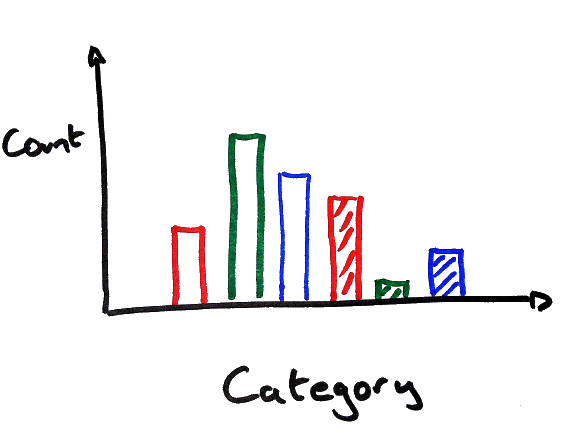
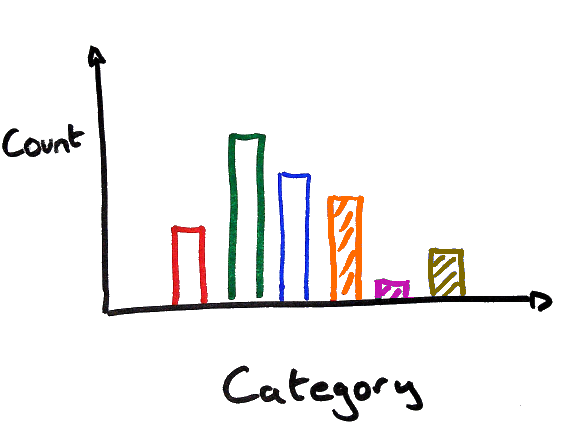
remove insider context, ty q graph to match metrics chart

Changed region(s): [[0.5758, 0.4524, 0.7273, 0.6937], [0.7576, 0.5731, 0.8485, 0.6937], [0.0606, 0.3318, 0.1212, 0.3619]]

diff --git a/index.html b/index.html
@@ -106,7 +106,7 @@
                 </section>
 
                 <section>
-                    <img style='background-color:#fff;width:100%;height:100%' src='q-graph.png'>
+                    <img style='background-color:#fff;width:100%;height:100%' src='q-graph-categorise.png'>
                 </section>
 
                 <section>
